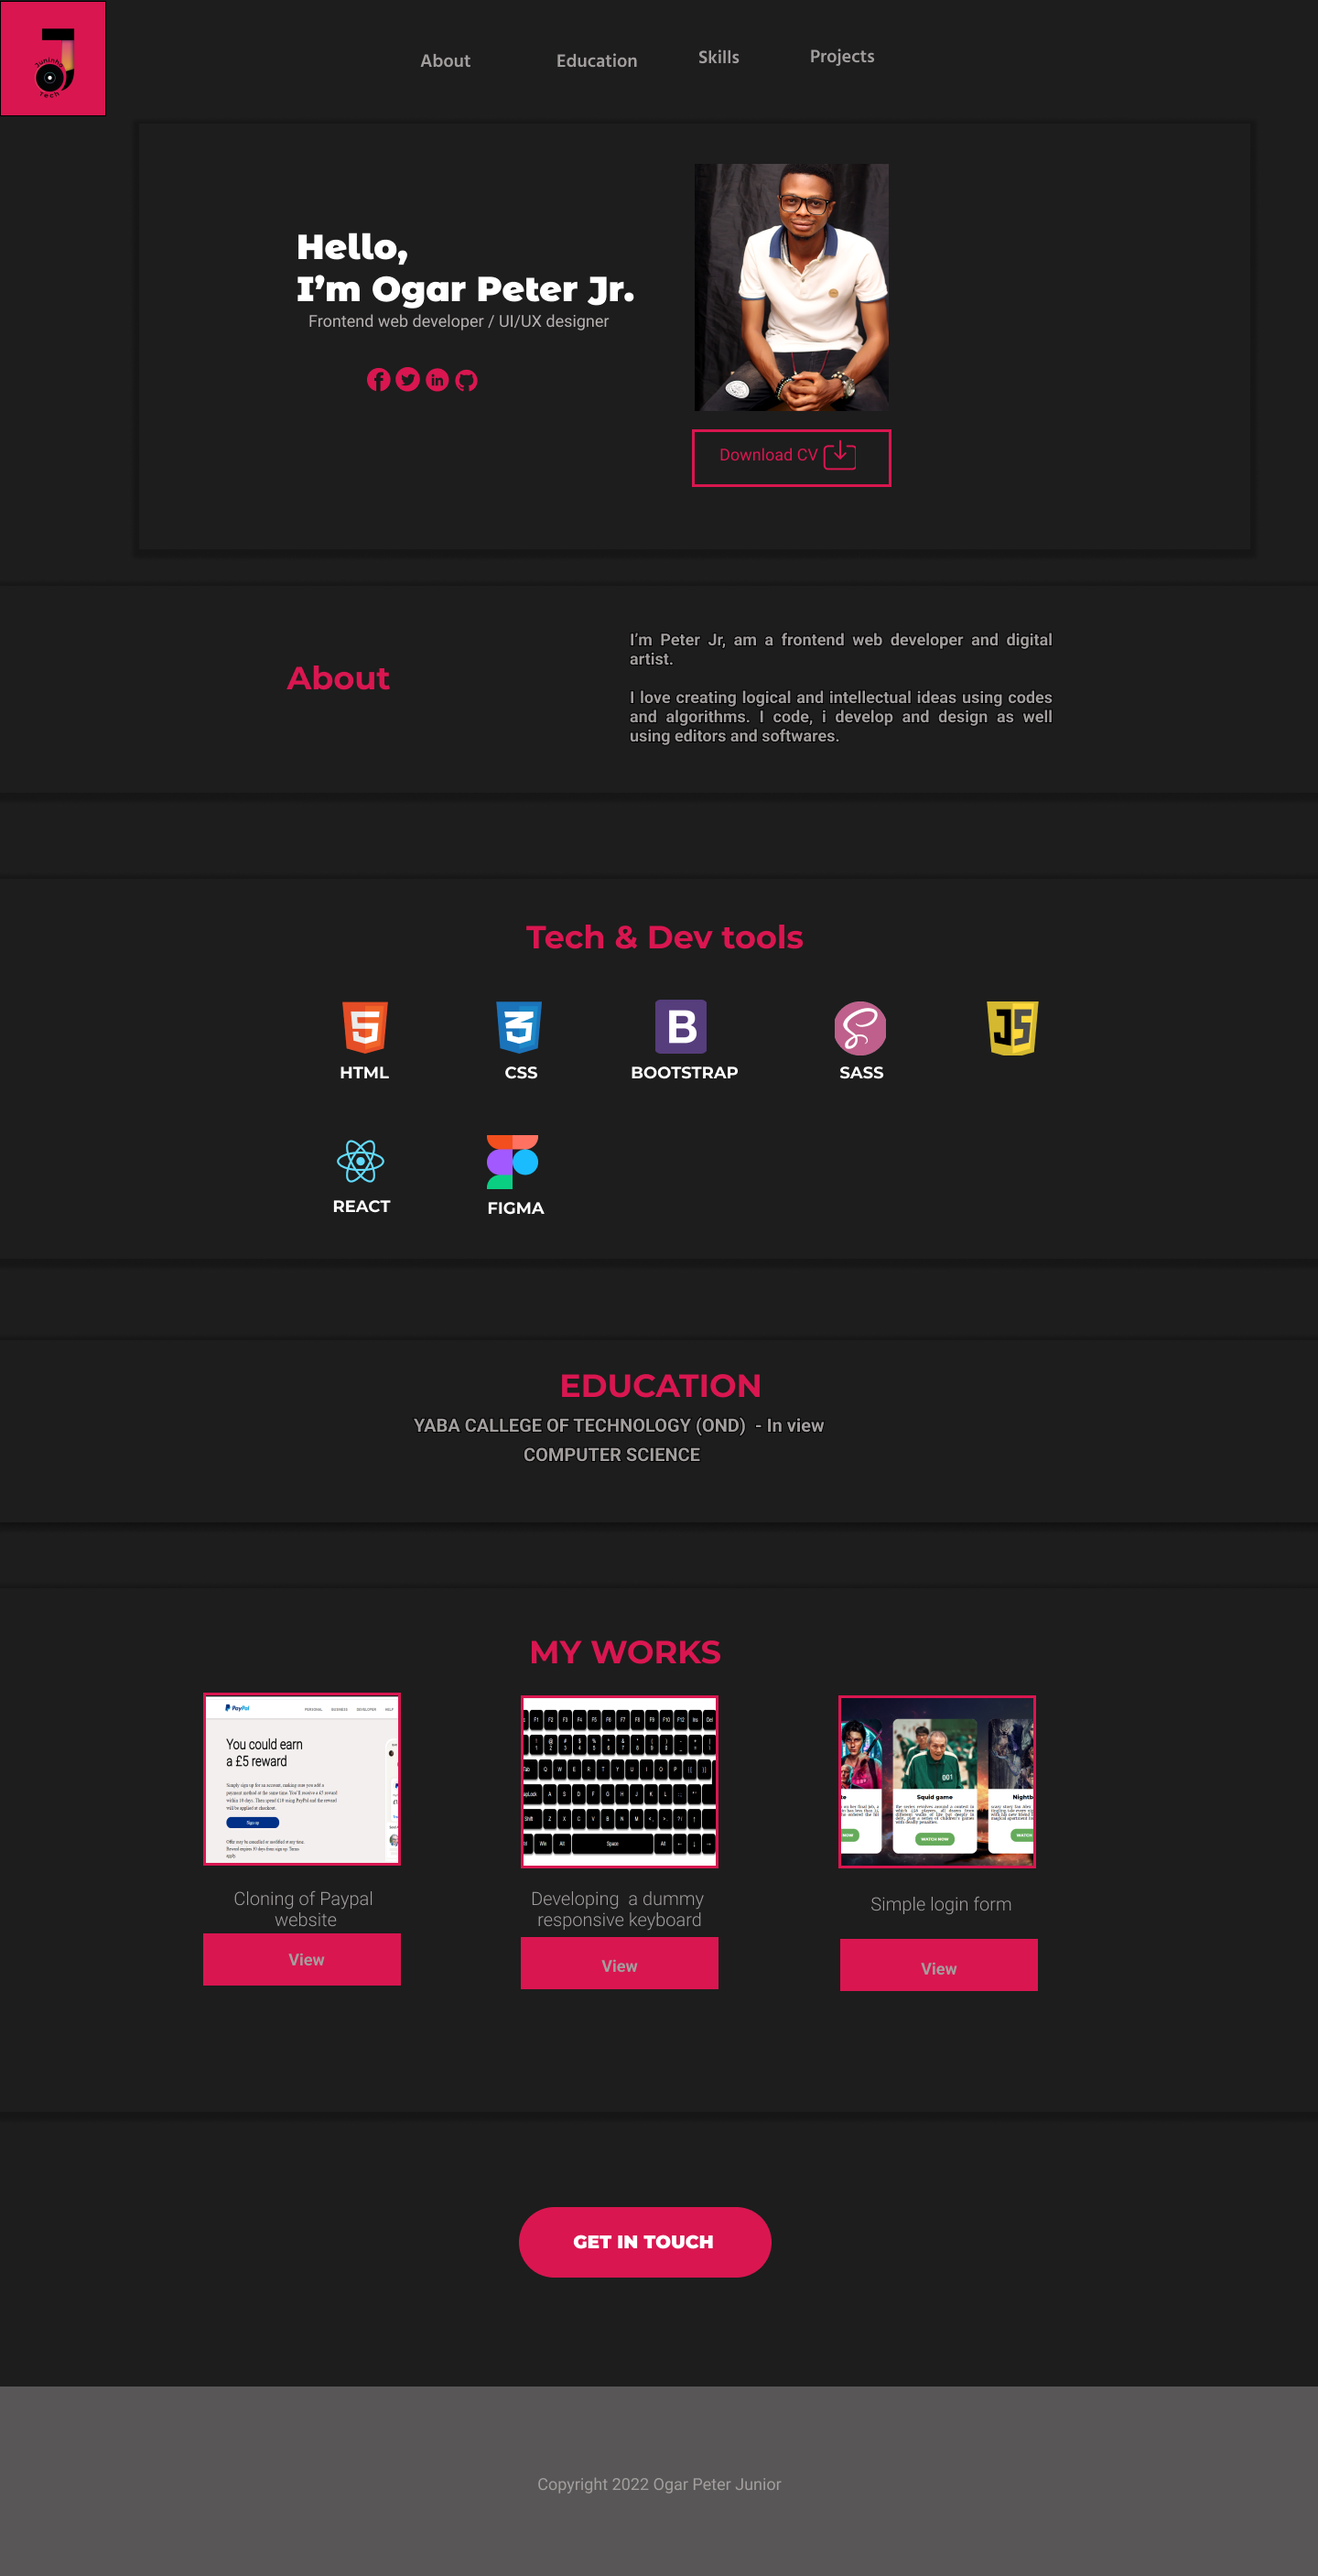
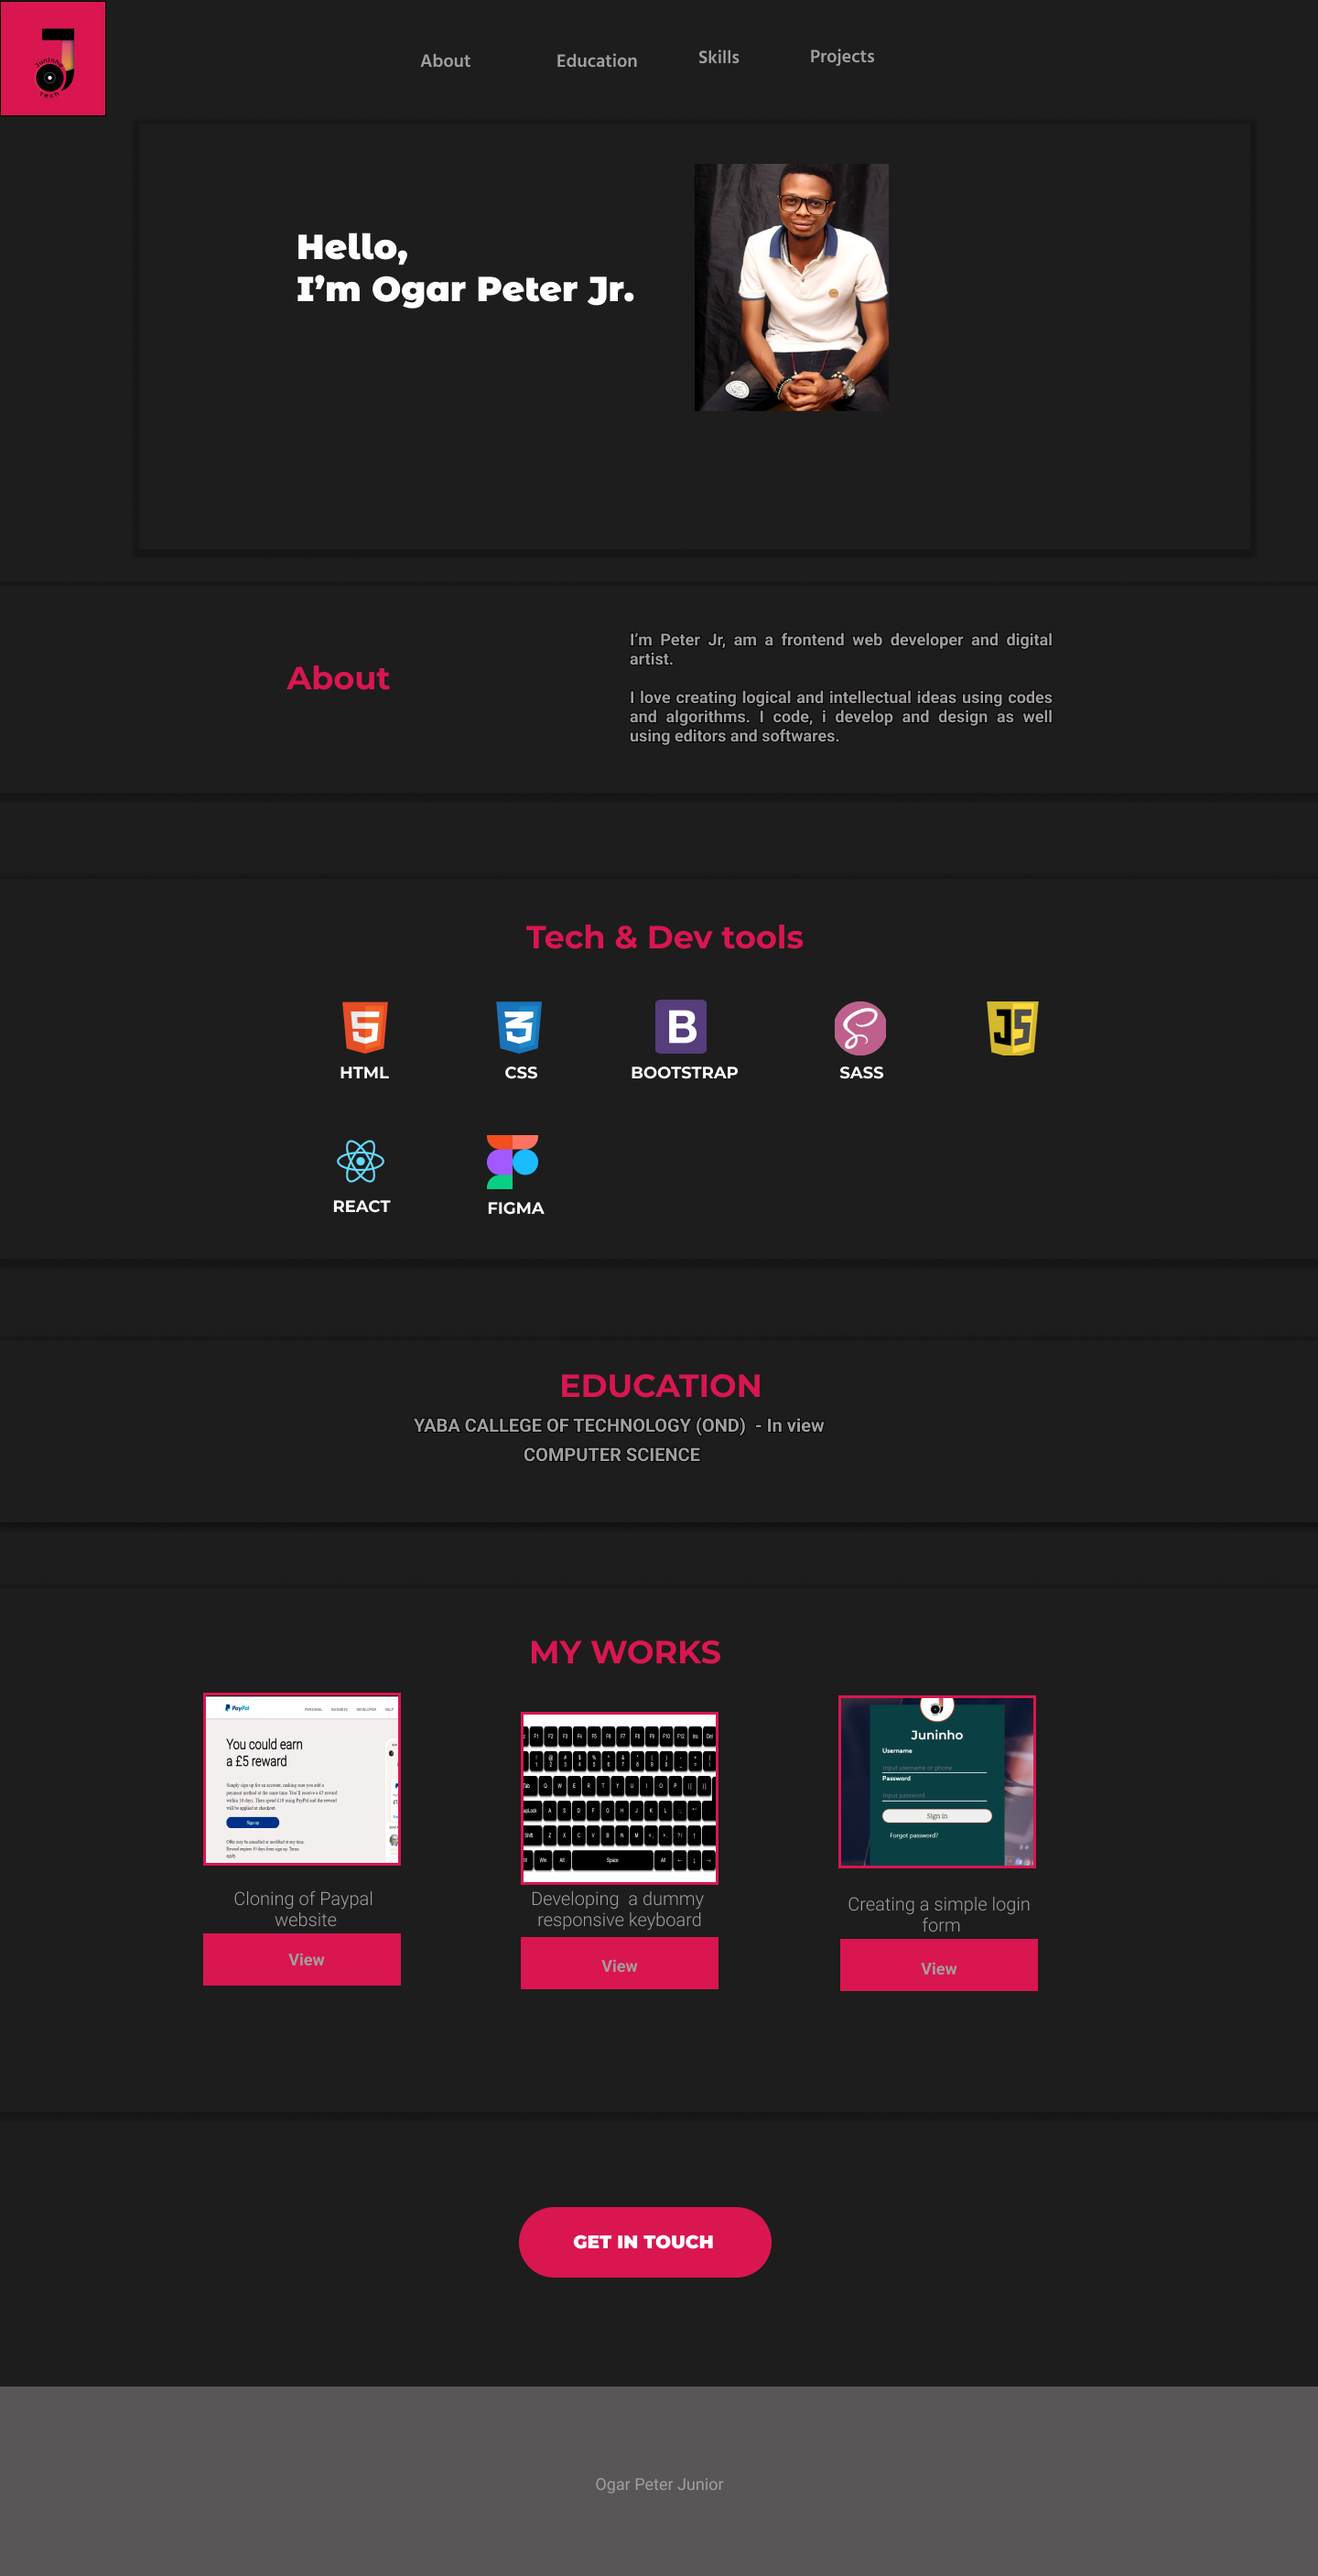
made some changes on the readme and also replacing some codes

diff --git a/index.min.css b/index.min.css
@@ -1,2 +1,2 @@
-body{background-color:#1d1d1d;position:relative}.togcol{color:#fff}.navi{color:#fff !important;margin-right:20px}.navlista{margin-left:40px;color:#a39e9e !important}@media(max-width: 820px){.navul{background-color:#130912;height:40rem;position:relative}}@media(max-width: 820px){.rowborder{text-align:center}}.navhover:hover{color:#d91650 !important;display:block}.navlist{font-family:"montserrat";font-size:1.03rem;font-weight:normal}.heroh1{font-family:"Montserrat";font-size:3.8rem;color:#fff;font-weight:bolder}.herop{color:#b9b3b3}.fddf{margin-bottom:30px !important;padding-left:20px;color:gray}.socialicons{height:1.875rem;width:1.875rem;display:flex}.mypics{width:13.25rem;height:16.875rem}.rowborder{padding:5% 7%;box-shadow:2px 2px 2px 2px #000}.navi{color:#fff}.dwnbtn{width:13.25rem;height:3.125rem;border-color:#d91650;color:#d91650;font-size:1rem}.dwnbtn :hover{color:#d91650}.abt{font-family:"Montserrat";font-size:2.1875;color:#d91650;display:flex;justify-content:center}.abtp{font-family:"Roboto";color:#a39e9e;font-size:1.125rem}.rowabt{margin-top:2%;padding:5% 7%;box-shadow:2px 2px 2px 2px #000}.tech-features{padding:5% 15%}.techname{display:flex;justify-content:center;margin-bottom:1rem;color:#d91650;font-family:"Montserrat"}.techicons{text-align:center}.techrow{box-shadow:2px 2px 2px 2px #000}.fa-6x{color:gray}.techrow{padding:5%}.techh4{font-size:1.1rem;padding:1%}.educate{font-family:"Montserrat";font-size:2.1875;color:#d91650;margin:2%}.rotech{text-align:center;box-shadow:2px 2px 2px 2px #000}.edp{font-size:.75rem;color:#a39e9e;font-family:"Roboto"}.mwrk{text-align:center;font-family:"Montserrat";font-size:2.1875;color:#d91650;margin-top:2%}.wrkrow{box-shadow:2px 2px 2px 2px #000}.wrkcol{margin-bottom:1.25rem;text-align:center;padding:2%}.card{border:2px solid #d91650}.ptxx{font-family:"Roboto";font-size:1.2rem;color:#a39e9e;padding:0 10px 0 10px}.btnview{background-color:#d91650 !important;border:none;outline:none}.btnview:hover{background-color:#57061e !important}.getintbutton:hover{background-color:#57061e !important}.getintbutton{font-family:"Montserrat";font-size:.875rem;color:#fff;background-color:#d91650 !important;outline:none;border:none;border-radius:10px;margin:0 auto;display:block}.getintbt{padding:50px 0 60px 0}footer{text-align:center;color:#a39e9e;padding:20px;background-color:#585656}a{text-decoration:none}@media(max-width: 820px){.container{text-align:center}}.arrow-up{display:flex;justify-content:center;margin-top:30px;text-align:right}.arrow-up .faaa{color:#d91650 !important}.arrow-up .faaa:hover{color:#ff0 !important}
+body{background-color:#1d1d1d;position:relative}.togcol{color:#fff}.navi{color:#fff !important;margin-right:20px}.navlista{margin-left:40px;color:#a39e9e !important}@media(max-width: 980px){.navul{background-color:#130912;height:20rem;position:relative;text-align:center}}@media(max-width: 820px){.rowborder{text-align:center}}.navhover:hover{color:#d91650 !important;display:block}.navlist{font-family:"montserrat";font-size:1.03rem;font-weight:normal}.heroh1{font-family:"Montserrat";font-size:3.8rem;color:#fff;font-weight:bolder}@media(max-width: 820px){.heroh1{font-family:"Montserrat";font-size:2rem;color:#fff;font-weight:bolder}}.herop{color:#b9b3b3}.fddf{margin-bottom:30px !important;padding-left:20px;color:gray}.socialicons{height:1.875rem;width:1.875rem;display:flex}.mypics{width:13.25rem;height:16.875rem}.rowborder{padding:5% 7%;box-shadow:2px 2px 2px 2px #000}.navi{color:#fff}.dwnbtn{width:13.25rem;height:3.125rem;border-color:#d91650;color:#d91650;font-size:1rem}.dwnbtn :hover{color:#d91650}.abt{font-family:"Montserrat";font-size:2.1875;color:#d91650;display:flex;justify-content:center}.abtp{font-family:"Roboto";color:#a39e9e;font-size:1.125rem}.rowabt{margin-top:2%;padding:5% 7%;box-shadow:2px 2px 2px 2px #000}.tech-features{padding:5% 15%}.techname{display:flex;justify-content:center;margin-bottom:1rem;color:#d91650;font-family:"Montserrat"}.techicons{text-align:center}.techrow{box-shadow:2px 2px 2px 2px #000}.fa-6x{color:gray}.techrow{padding:5%}.techh4{font-size:1.1rem;padding:1%}.educate{font-family:"Montserrat";font-size:2.1875;color:#d91650;margin:2%}.rotech{text-align:center;box-shadow:2px 2px 2px 2px #000}.edp{font-size:.75rem;color:#a39e9e;font-family:"Roboto"}.mwrk{text-align:center;font-family:"Montserrat";font-size:2.1875;color:#d91650;margin-top:2%}.wrkrow{box-shadow:2px 2px 2px 2px #000}.wrkcol{margin-bottom:1.25rem;text-align:center;padding:2%}.card{border:2px solid #d91650}.ptxx{font-family:"Roboto";font-size:1.2rem;color:#a39e9e;padding:0 10px 0 10px}.btnview{background-color:#d91650 !important;border:none;outline:none}.btnview:hover{background-color:#57061e !important}.getintbutton:hover{background-color:#57061e !important}.getintbutton{font-family:"Montserrat";font-size:.875rem;color:#fff;background-color:#d91650 !important;outline:none;border:none;border-radius:40px;margin:0 auto;display:block}.getintbt{padding:50px 0 60px 0}footer{text-align:center;color:#a39e9e;padding:20px;background-color:#585656}a{text-decoration:none}@media(max-width: 820px){.container{text-align:center}}.arrow-up{display:flex;justify-content:center;margin-top:30px;text-align:right}.arrow-up .faaa{color:#d91650 !important}.arrow-up .faaa:hover{color:#ff0 !important}
 /*# sourceMappingURL=index.min.css.map */

diff --git a/index.html b/index.html
@@ -153,40 +153,31 @@
         <div class="mwrk">
           <h2 class="myww">MY WORKS</h2>
         </div>
-        <div class="col-lg-3 col-md-6 col-sm-12 wrkcol">
+        <div class="col-lg-4 col-md-6 col-sm-12 wrkcol">
           <div class="card mx-auto" style="width: 14rem;">
             <img src="image/paypal.png" class="card-img-top" style="height: 150px;" alt="paypal">
           </div>
           <div class="txtp">
-            <p class="ptxx">Cloning of Paypal website</p>
-            <a href="#" class="btn btn-primary btnview" style="width: 14rem;">View</a>
+            <p class="ptxx">Cloning of Paypal <br> website</p>
+            <a href="#" class="btn btn-primary btnview" style="width: 14rem;"> <i class="fab fa-github fa-2x"></i></a>
           </div>
         </div>
-        <div class="col-lg-3 col-md-6 col-sm-12 wrkcol">
-          <div class="card mx-auto" style="width: 14rem;">
-            <img src="image/fishvill.png" class="card-img-top" style="height: 150px;" alt="paypal">
-          </div>
-          <div class="txtp">
-            <p class="ptxx">Designing and developing of Fishville website</p>
-            <a href="#" class="btn btn-primary btnview" style="width: 14rem;">View</a>
-          </div>
-        </div>
-        <div class="col-lg-3 col-md-6 col-sm-12 wrkcol">
+        <div class="col-lg-4 col-md-6 col-sm-12 wrkcol">
           <div class="card mx-auto" style="width: 14rem;">
             <img src="image/keyboard.png" class="card-img-top" style="height: 150px;" alt="paypal">
           </div>
           <div class="txtp">
-            <p class="ptxx">Developing a dummy responsive keyboard</p>
-            <a href="#" class="btn btn-primary btnview"style="width: 14rem;">View</a>
+            <p class="ptxx">Developing a dummy <br> keyboard</p>
+            <a href="#" class="btn btn-primary btnview"style="width: 14rem;"> <i class="fab fa-github fa-2x"></i></a>
           </div>
         </div>
-        <div class="col-lg-3 col-md-6 col-sm-12 wrkcol">
-          <div class="card mx-auto" style="width: 14rem;">
+        <div class="col-lg-4 col-md-6 col-sm-12 wrkcol">
+          <div class="card mx-auto" style="width: 15rem;">
             <img src="image/movie card.png" class="card-img-top" style="height: 150px;" alt="paypal">
           </div>
           <div class="txtp">
-            <p class="ptxx">Creating a fictional box office card</p>
-            <a href="#" class="btn btn-primary btnview"style="width: 14rem;">View</a>
+            <p class="ptxx">Creating a simple login <br> form</p>
+            <a href="#" class="btn btn-primary btnview"style="width: 14rem;"> <i class="fab fa-github fa-2x"></i></a>
           </div>
         </div>
       </div>
@@ -199,7 +190,7 @@
     <!-- Get in touch section -->
 
     <div class="getintbt">
-     <a href="mailto:juninhopeter1@gmail.com" class=""><button type="button" class="btn btn-primary btn-lg getintbutton">GET IN TOUCH</button></a>
+     <a href="mailto:juninhopeter1@gmail.com" class=""><button type="button" class="btn btn-primary btn-lg getintbutton" style="width: 276px; height: 77px;">GET IN TOUCH</button></a>
     </div>
 
 
@@ -214,7 +205,7 @@
         <a href="https://github.com/Juninhotech"><i class="fab fa-github fddf fa-2x"></i></a>
 
       </div>
-      Copyright 2022 Juninho tech
+      Ogar Peter Junior
       
     </footer>
 

diff --git a/index.scss b/index.scss
@@ -24,11 +24,12 @@ body{
  @include navlista(); 
 }
 
-@media(max-width: 820px){
+@media(max-width: 980px){
     .navul{
         background-color: #130912;
-        height: 40rem;
+        height: 20rem;
         position: relative;
+        text-align: center;
     }
 }
 
@@ -86,6 +87,16 @@ body{
 
 .heroh1{
     @include heroh1;
+}
+
+@media(max-width:820px){
+    .heroh1{
+        font-family: "Montserrat";
+        font-size: 2rem;
+        color: white;
+        font-weight: bolder;
+    }
+
 }
 
 @mixin herop {
@@ -310,6 +321,7 @@ body{
 
 }
 
+
 @mixin wrkrow {
     box-shadow: 2px 2px 2px 2px black;
 }
@@ -365,7 +377,7 @@ body{
     background-color: #D91650 !important;
     outline: none;
     border: none;
-    border-radius: 10px;
+    border-radius: 40px;
     margin: 0 auto;
     display: block;
 }

diff --git a/index.css b/index.css
@@ -17,11 +17,12 @@ body {
   color: #A39E9E !important;
 }
 
-@media (max-width: 820px) {
+@media (max-width: 980px) {
   .navul {
     background-color: #130912;
-    height: 40rem;
+    height: 20rem;
     position: relative;
+    text-align: center;
   }
 }
 @media (max-width: 820px) {
@@ -47,6 +48,14 @@ body {
   font-weight: bolder;
 }
 
+@media (max-width: 820px) {
+  .heroh1 {
+    font-family: "Montserrat";
+    font-size: 2rem;
+    color: white;
+    font-weight: bolder;
+  }
+}
 .herop {
   color: #B9B3B3;
 }
@@ -210,7 +219,7 @@ body {
   background-color: #D91650 !important;
   outline: none;
   border: none;
-  border-radius: 10px;
+  border-radius: 40px;
   margin: 0 auto;
   display: block;
 }

diff --git a/README.md b/README.md
@@ -21,3 +21,7 @@
 # Credits
         @Juninhotech
         @ProfGreatWonder
+
+# Note
+---
+>>Kindly note that some icons on the figma were replace during coding for some personal reasons.
